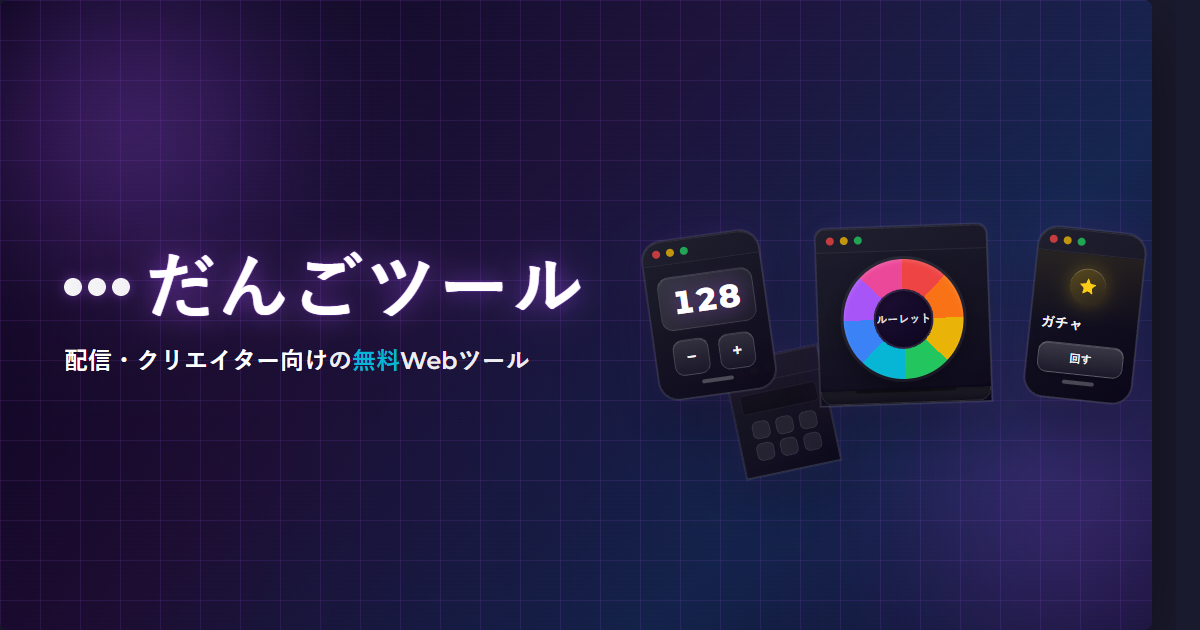
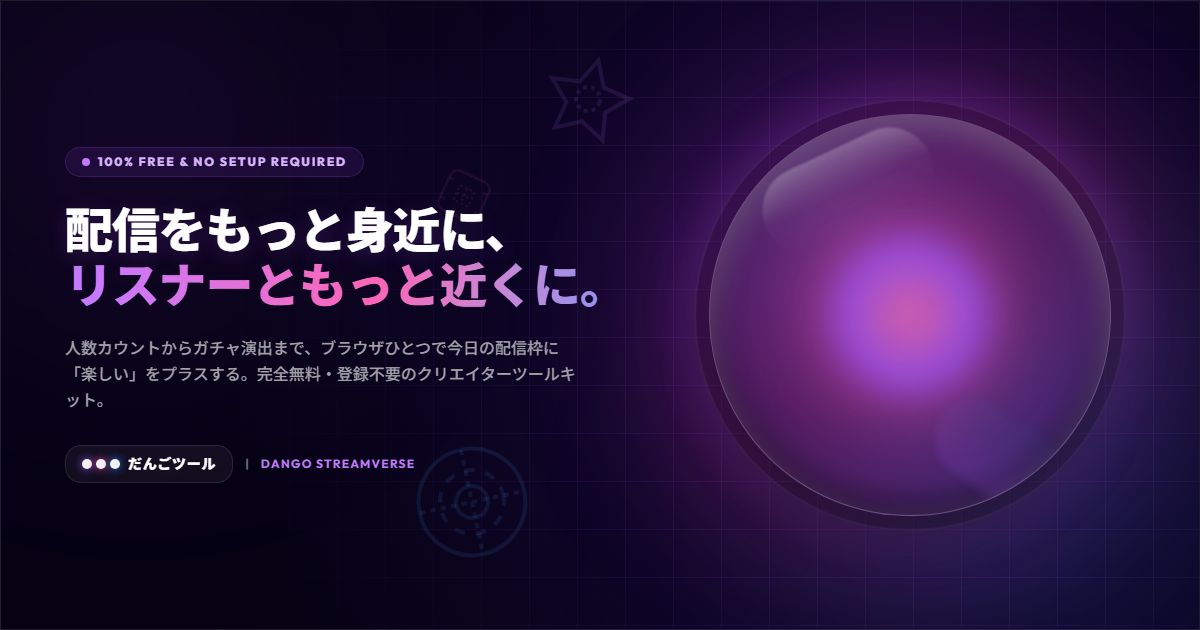
feat(ogp): LPのデザインを継承した3D/CSSフォールバック対応の専用OGPテンプレート構築および自動生成

diff --git a/src/app/og-template/page.tsx b/src/app/og-template/page.tsx
@@ -1,0 +1,177 @@
+"use client";
+
+import { useRef, useEffect, useState } from "react";
+import dynamic from "next/dynamic";
+import ErrorBoundary from "@/components/ErrorBoundary";
+import DangoOrb2D from "../landing/components/DangoOrb2D";
+
+// Dynamic import for 3D Orb to disable SSR (essential for react-three-fiber Canvas)
+const DangoOrb3D = dynamic(() => import("../landing/components/DangoOrb3D"), {
+  ssr: false,
+});
+
+export default function OgTemplatePage() {
+  const containerRef = useRef<HTMLDivElement>(null);
+  const [isMounted, setIsMounted] = useState(false);
+  const [hasWebGL, setHasWebGL] = useState<boolean | null>(null);
+
+  useEffect(() => {
+    const frameId = requestAnimationFrame(() => {
+      setIsMounted(true);
+      // WebGLの利用可否をクライアントサイドで検出
+      try {
+        const canvas = document.createElement("canvas");
+        const support = !!(
+          window.WebGLRenderingContext &&
+          (canvas.getContext("webgl") || canvas.getContext("experimental-webgl"))
+        );
+        setHasWebGL(support);
+      } catch {
+        setHasWebGL(false);
+      }
+    });
+
+    // Force dark mode styles on body/document for exact look
+    document.documentElement.classList.remove("light");
+    document.documentElement.classList.add("dark");
+    document.body.classList.remove("light-mode");
+
+    return () => {
+      cancelAnimationFrame(frameId);
+    };
+  }, []);
+
+  if (!isMounted) return null;
+
+  return (
+    <div className="w-full min-h-screen bg-[#03010a] flex items-center justify-center font-[family-name:var(--font-outfit)] overflow-hidden select-none">
+      {/* 共通レイアウトに配置されているデバッグツールやヘルプボタンなどのグローバルfixed要素をこのページでのみ完全に消し去る */}
+      <style dangerouslySetInnerHTML={{ __html: `
+        header, dango-header, footer, [title="使い方を見る"], #vercel-web-analytics, [id^="vercel-"], .vercel-toolbar, next-route-announcer, nextjs-portal, vercel-live-feedback, body > [class*="vercel"] {
+          display: none !important;
+          opacity: 0 !important;
+          pointer-events: none !important;
+        }
+
+        /* アプローチB: ほのかなサイバーテック感のための背景グリッド */
+        .ogp::before {
+          content: "";
+          position: absolute;
+          inset: 0;
+          background-image:
+            linear-gradient(rgba(168, 85, 247, 0.09) 1px, transparent 1px),
+            linear-gradient(90deg, rgba(168, 85, 247, 0.09) 1px, transparent 1px);
+          background-size: 48px 48px;
+          mask-image: radial-gradient(circle at 75% 50%, rgba(0,0,0,1) 30%, rgba(0,0,0,0) 80%);
+          -webkit-mask-image: radial-gradient(circle at 75% 50%, rgba(0,0,0,1) 30%, rgba(0,0,0,0) 80%);
+          pointer-events: none;
+          z-index: 1;
+        }
+      `}} />
+
+      {/* Target element captured by Puppeteer */}
+      <div
+        ref={containerRef}
+        className="ogp w-[1200px] h-[630px] bg-[#060214] relative overflow-hidden flex items-center justify-between px-16 border border-white/10 shadow-[0_25px_80px_rgba(0,0,0,0.6)]"
+        style={{
+          background: "radial-gradient(circle at 75% 50%, #17093b 0%, #060214 70%)",
+        }}
+      >
+        {/* Background neon ambient orb glows */}
+        <div className="absolute top-[-10%] left-[-5%] w-[400px] h-[400px] rounded-full bg-purple-500/10 blur-[130px] pointer-events-none" />
+        <div className="absolute bottom-[-15%] right-[-5%] w-[450px] h-[450px] rounded-full bg-blue-500/10 blur-[150px] pointer-events-none" />
+        
+        {/* Floating Cyber Watermark Tool Icons (視認性を上げつつ、品を保つ不透明度約10%に調整) */}
+        {/* 1. ガチャを象徴するテクニカル・スター */}
+        <svg 
+          className="absolute top-[8%] left-[45%] w-24 h-24 text-purple-400/11 rotate-[15deg] pointer-events-none select-none z-0" 
+          viewBox="0 0 24 24" fill="none" stroke="currentColor" strokeWidth="1"
+        >
+          <polygon points="12 2 15.09 8.26 22 9.27 17 14.14 18.18 21.02 12 17.77 5.82 21.02 7 14.14 2 9.27 8.91 8.26 12 2" />
+          <circle cx="12" cy="12" r="3" strokeDasharray="1 1" />
+        </svg>
+
+        {/* 2. ルーレットを象徴する計測用テクニカル・レーダー */}
+        <svg 
+          className="absolute bottom-[10%] left-[34%] w-32 h-32 text-blue-400/10 rotate-[-12deg] pointer-events-none select-none z-0"
+          viewBox="0 0 24 24" fill="none" stroke="currentColor" strokeWidth="0.75"
+        >
+          <circle cx="12" cy="12" r="10" />
+          <circle cx="12" cy="12" r="6" strokeDasharray="2 2" />
+          <circle cx="12" cy="12" r="3" />
+          <path d="M12 2v20M2 12h20" strokeDasharray="1 1" />
+        </svg>
+
+        {/* 3. カウンターを象徴するICチップ風回路フレーム */}
+        <svg 
+          className="absolute top-[26%] left-[36%] w-16 h-16 text-pink-400/8 rotate-[25deg] pointer-events-none select-none z-0"
+          viewBox="0 0 24 24" fill="none" stroke="currentColor" strokeWidth="1"
+        >
+          <rect x="4" y="4" width="16" height="16" rx="3" />
+          <path d="M9 12h6M12 9v6M9 9h6v6H9z" strokeDasharray="1 1" />
+          <path d="M4 8h2M4 16h2M20 8h-2M20 16 h-2" />
+        </svg>
+
+        {/* Left Side: Content & Branding */}
+        <div className="w-[58%] flex flex-col justify-center z-10">
+          {/* Badge */}
+          <div className="inline-flex items-center gap-2 bg-purple-500/10 border border-purple-500/20 rounded-full px-4 py-1.5 w-fit mb-6">
+            <span className="w-2 h-2 rounded-full bg-purple-400 animate-pulse" />
+            <span className="text-xs font-black tracking-[0.15em] text-purple-300 uppercase">
+              100% Free &amp; No Setup Required
+            </span>
+          </div>
+
+          {/* Catchphrase */}
+          <h1 className="text-5xl font-black leading-[1.15] tracking-tight font-[family-name:var(--font-plus-jakarta)] text-white mb-6">
+            <span className="block text-white" style={{ textShadow: "0 4px 20px rgba(168, 85, 247, 0.2)" }}>
+              配信をもっと身近に、
+            </span>
+            <span className="block bg-gradient-to-r from-purple-400 via-pink-400 to-blue-400 bg-clip-text text-transparent" style={{ WebkitBackgroundClip: "text", WebkitTextFillColor: "transparent" }}>
+              リスナーともっと近くに。
+            </span>
+          </h1>
+
+          {/* Description */}
+          <p className="text-[#a1a1aa] text-base leading-relaxed font-medium max-w-[520px] mb-8">
+            人数カウントからガチャ演出まで、ブラウザひとつで今日の配信枠に「楽しい」をプラスする。完全無料・登録不要のクリエイターツールキット。
+          </p>
+
+          {/* Brand Footer Inside OGP */}
+          <div className="flex items-center gap-3">
+            {/* Elegant glassmorphic branding label */}
+            <div className="flex items-center gap-2 px-4 py-2 rounded-2xl border border-white/10 bg-white/5 backdrop-blur-md">
+              <div className="flex gap-1">
+                <span className="w-2.5 h-2.5 rounded-full bg-white opacity-95 shadow-[0_0_8px_#a855f7]" />
+                <span className="w-2.5 h-2.5 rounded-full bg-white opacity-95 shadow-[0_0_8px_#ec4899]" />
+                <span className="w-2.5 h-2.5 rounded-full bg-white opacity-95 shadow-[0_0_8px_#3b82f6]" />
+              </div>
+              <span className="text-sm font-black text-white tracking-wider">だんごツール</span>
+            </div>
+            <span className="text-xs font-bold text-zinc-500">|</span>
+            <span className="text-xs font-bold text-purple-400 tracking-[0.1em] uppercase">DANGO STREAMVERSE</span>
+          </div>
+        </div>
+
+        {/* Right Side: Beautiful 3D WebGL Sphere Canvas with pure CSS fallback */}
+        <div className="w-[42%] h-full flex items-center justify-center relative z-10">
+          <div className="w-[480px] h-[480px] relative flex items-center justify-center">
+            <ErrorBoundary fallback={<DangoOrb2D pulseTrigger={0} />}>
+              {hasWebGL ? (
+                <DangoOrb3D
+                  pulseTrigger={0}
+                  isMobile={false}
+                  className="absolute inset-0 pointer-events-none"
+                  eventSource={containerRef}
+                />
+              ) : (
+                /* WebGLが完全に無効化されているサンドボックス/ヘッドレス環境での極上CSSフォールバック */
+                <DangoOrb2D pulseTrigger={0} />
+              )}
+            </ErrorBoundary>
+          </div>
+        </div>
+      </div>
+    </div>
+  );
+}
